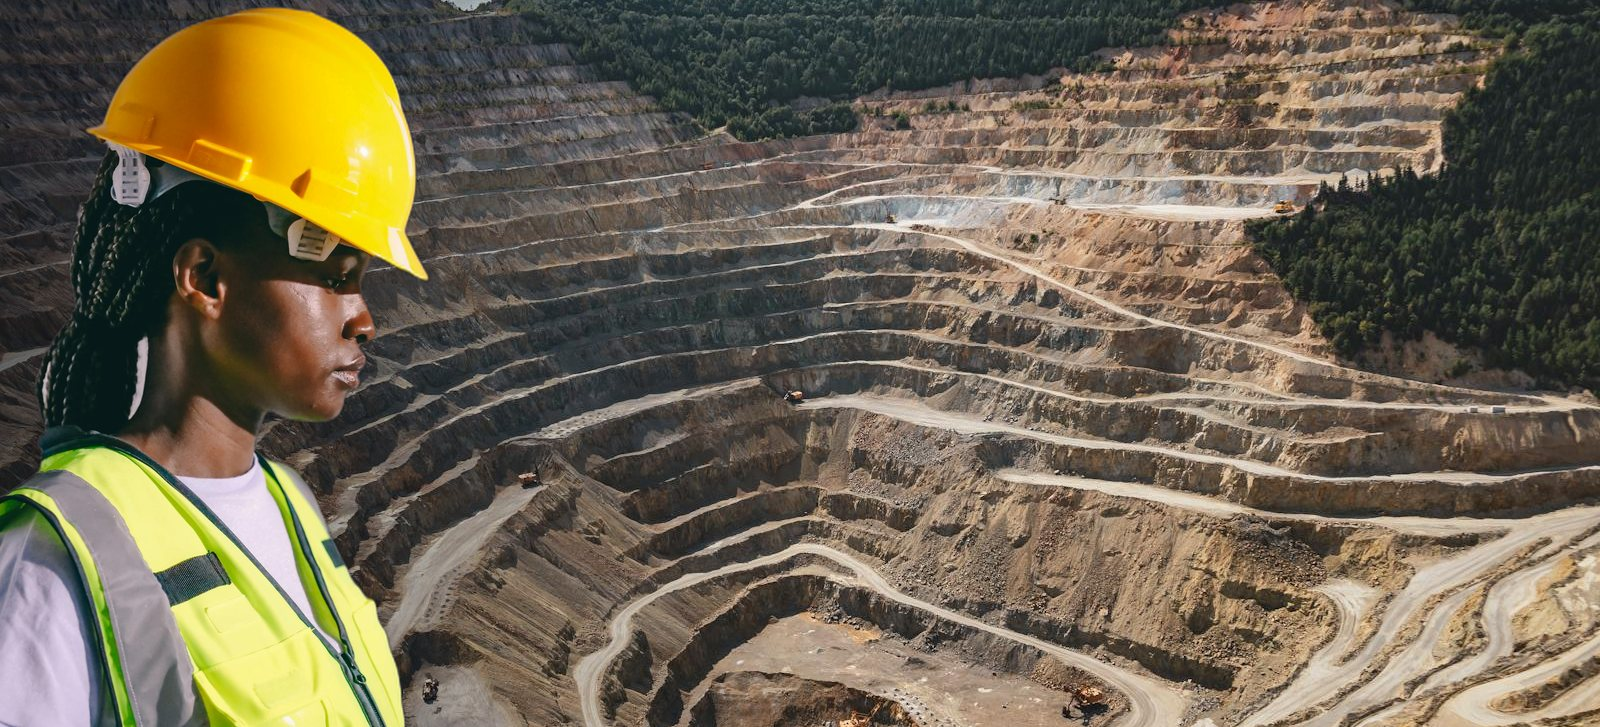
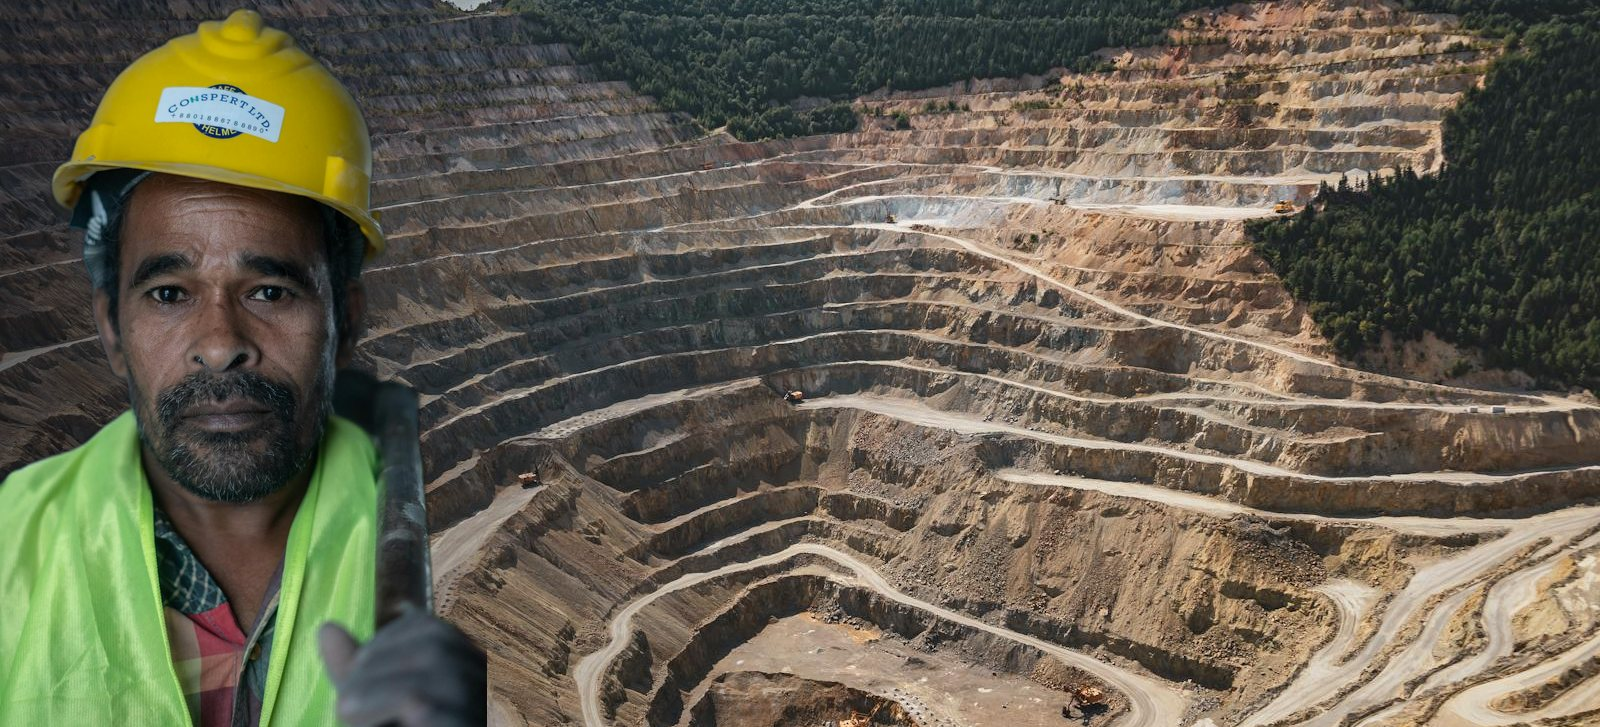
feat: hero person -> latino worker in full PPE (better fit for chilean audience)
Swap the cut-out person to a latino worker (yellow hard hat + hi-vis vest, full
PPE) over the same open-pit mine background, per feedback to better represent the
chilean audience. Pexels ID 37556454.

Changed region(s): [[0.0, 0.0, 0.3125, 1.0]]

diff --git a/branding/landing-hero/README.md b/branding/landing-hero/README.md
@@ -3,7 +3,7 @@
 ## Foto del hero (`frontend/public/hero-faena.jpg`) — composición paisaje + persona
 Fuente: Pexels (licencia libre, uso comercial sin atribución). Composición:
 - **Fondo**: mina a cielo abierto (gran minería), foto ID **2892618**.
-- **Persona**: ingeniera con EPP completo (casco amarillo, chaleco, lentes), foto ID **8487994**.
+- **Persona**: trabajador con EPP completo (casco amarillo, chaleco reflectante), foto ID **37556454** (rasgos latinos, elegido para el público chileno).
 Pasos (`compose_hero.py`):
 1. Descargar ambas fotos (w=1600).
 2. `rembg` recorta a la persona -> `persona_epp.png` (fondo transparente).